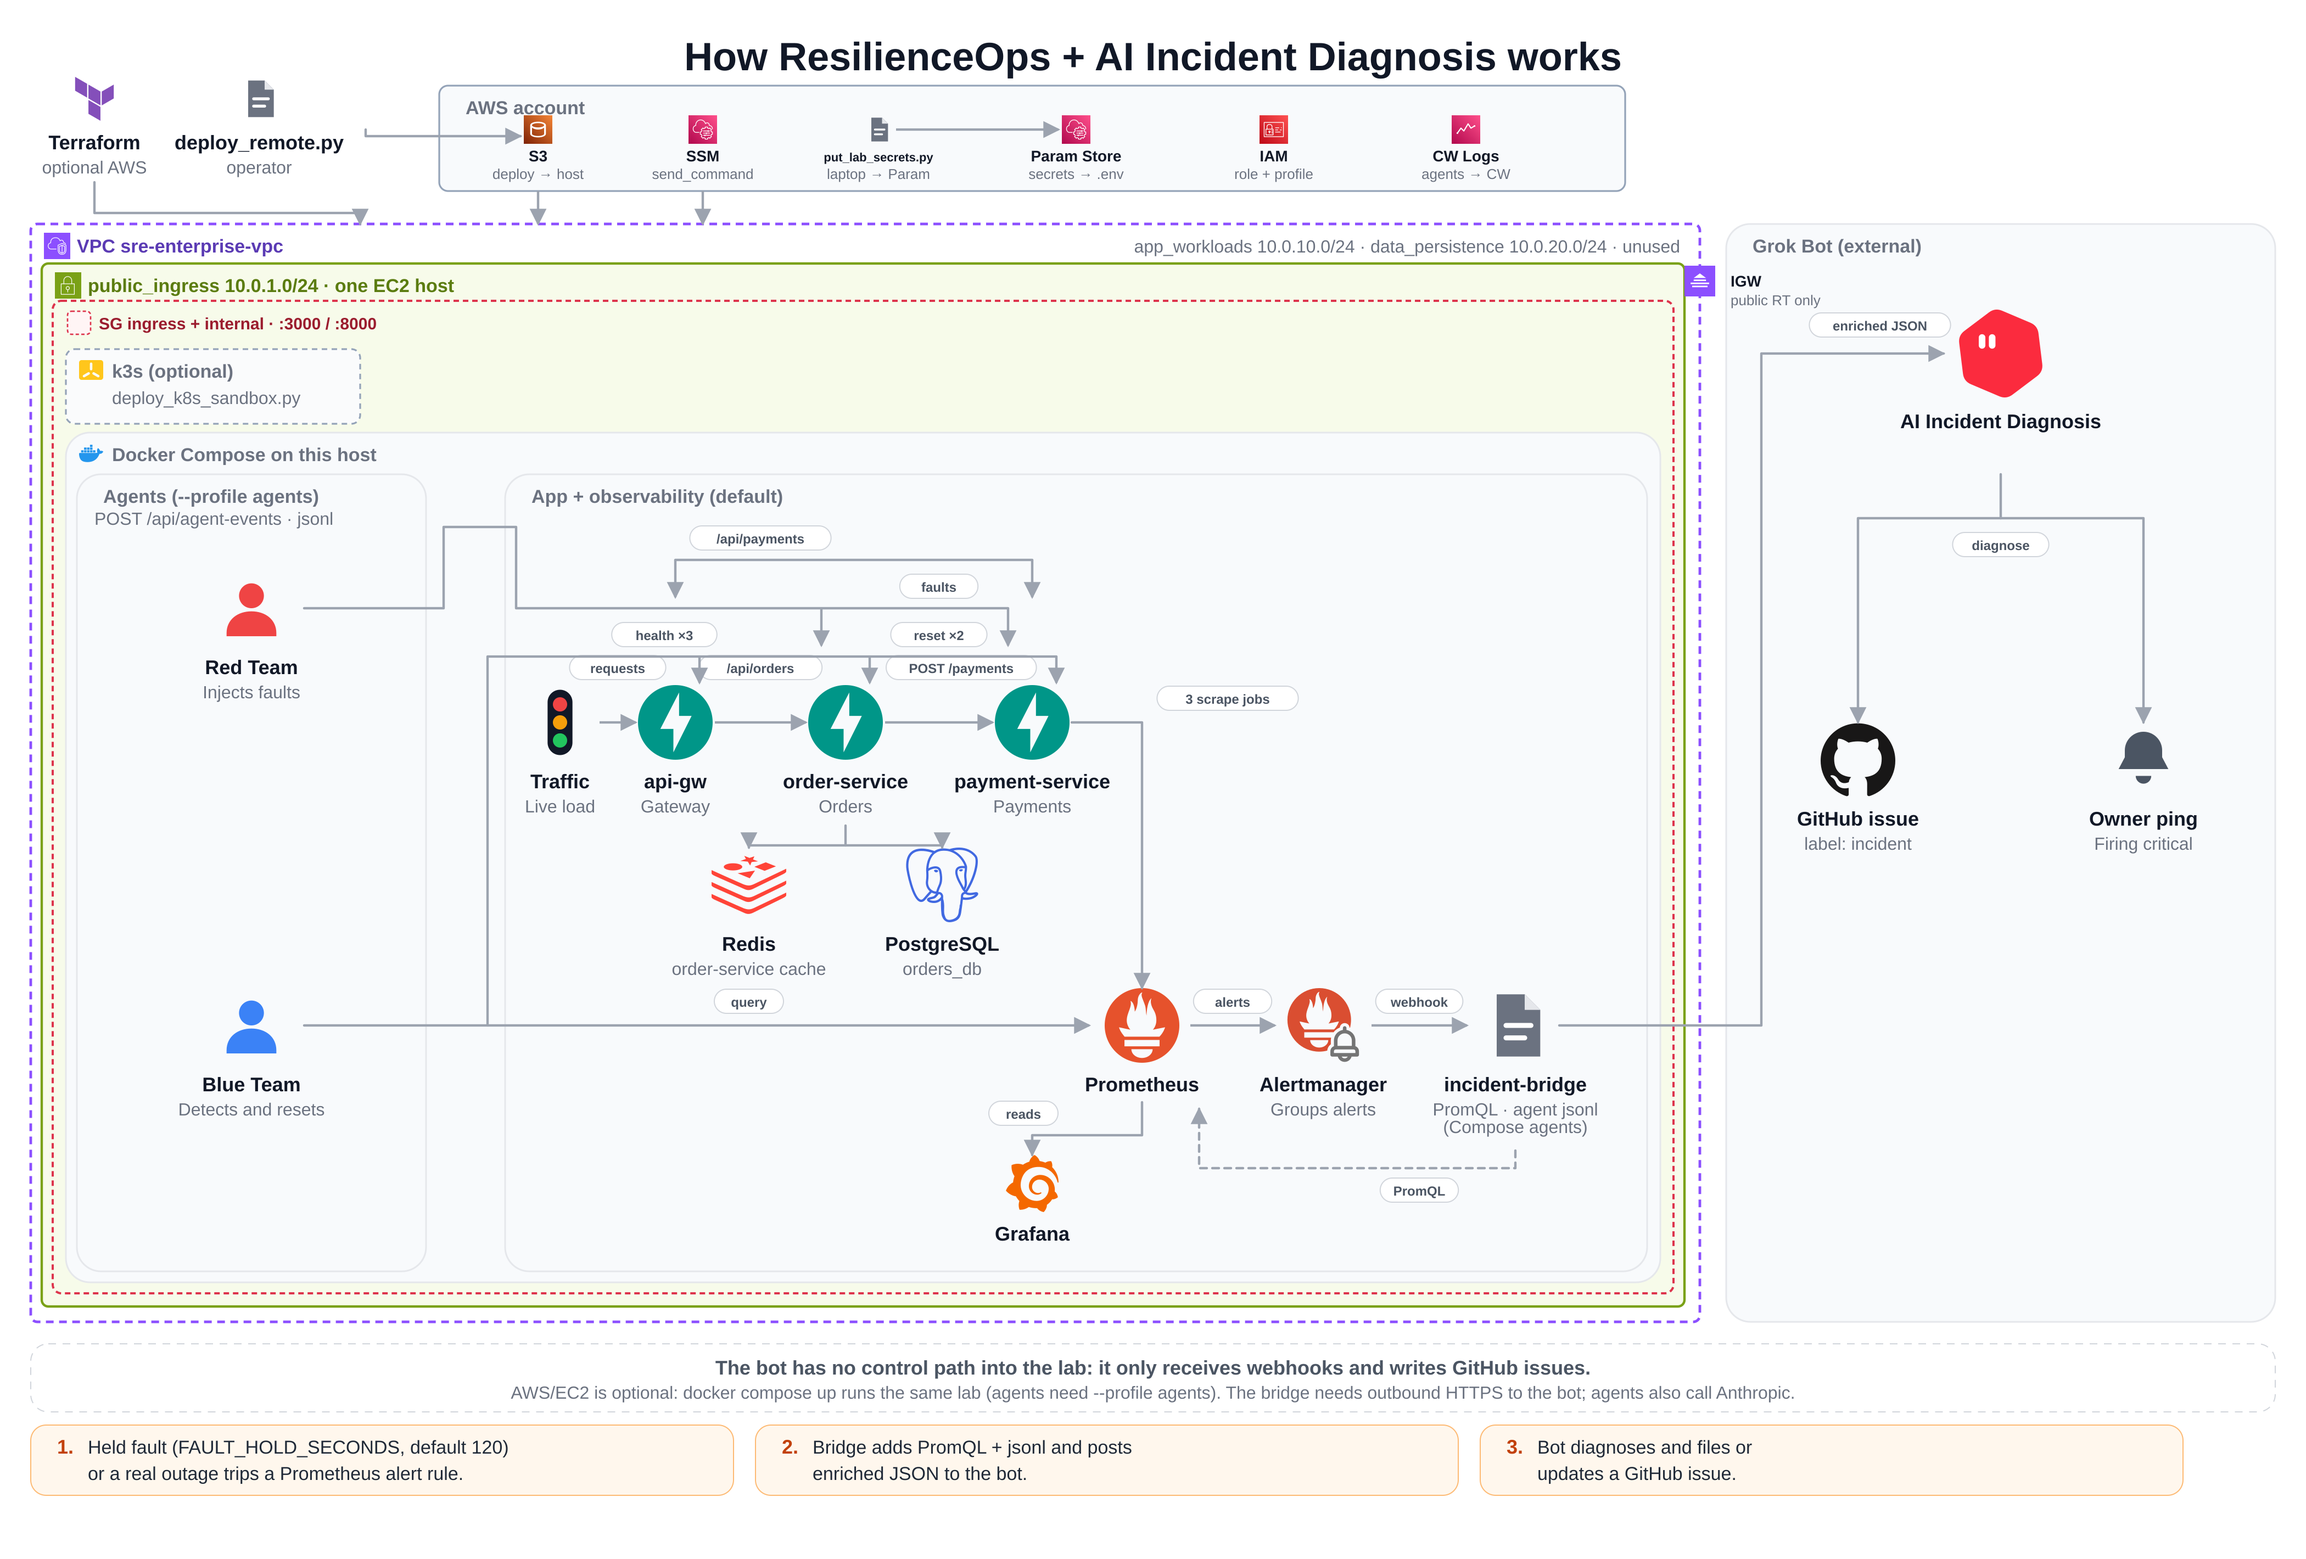
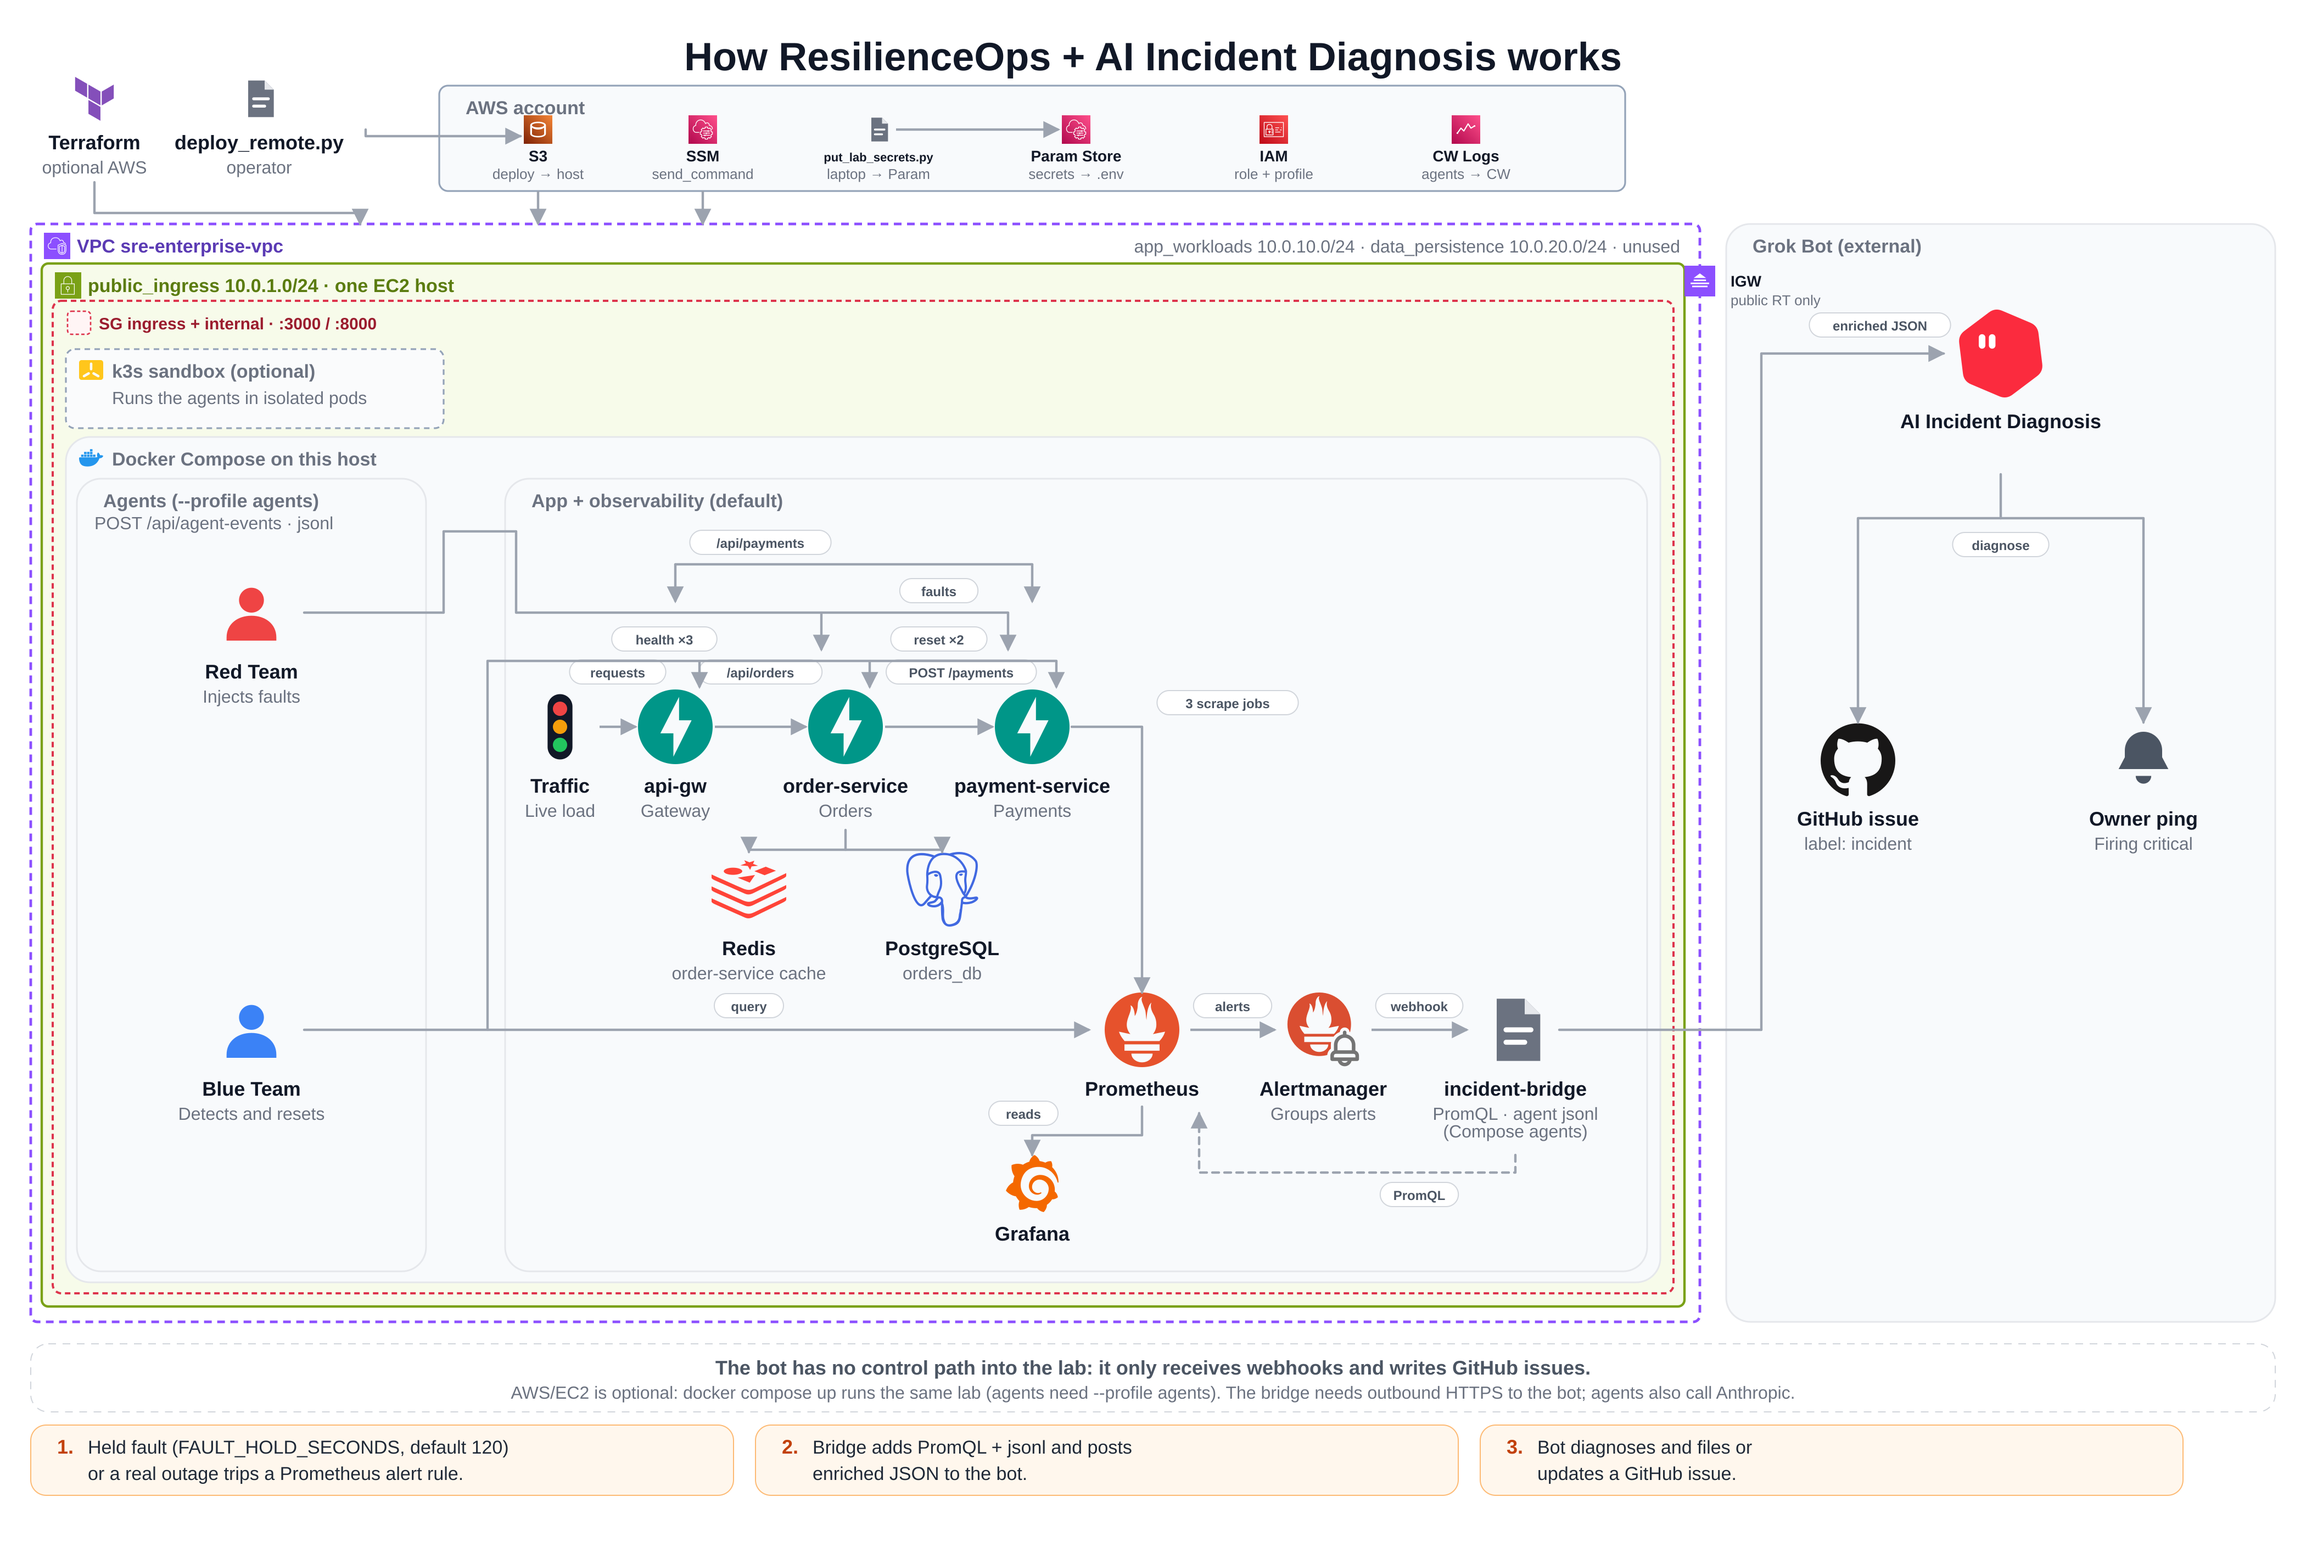
Relabel the optional k3s box as a sandbox for isolated agent pods. (#6)
The dashed k3s group now reads 'k3s sandbox (optional)' with subtitle
'Runs the agents in isolated pods'. The box is sized from the text
widths plus padding so check_geometry still reports zero violations.

diff --git a/scripts/build_architecture.py b/scripts/build_architecture.py
@@ -654,7 +654,11 @@ def build_scene() -> tuple[str, list[str]]:
     sg_w, sg_h = subnet_w - 20, subnet_h - 46
 
     nested_y = sg_y + 44
-    k3s_x, k3s_w, k3s_opt_h = sg_x + 12, 268, 68
+    k3s_title = "k3s sandbox (optional)"
+    k3s_sub = "Runs the agents in isolated pods"
+    k3s_x = sg_x + 12
+    k3s_opt_h = 72
+    k3s_w = 42 + max(_tw(k3s_title, 17, True), _tw(k3s_sub, 16)) + 20
     compose_x = sg_x + 12
     compose_y = nested_y + k3s_opt_h + 8
     compose_w = sg_w - 24
@@ -744,9 +748,9 @@ def build_scene() -> tuple[str, list[str]]:
     scene.add(group(sg_x, sg_y, sg_w, sg_h, "SG  ingress + internal  ·  :3000 / :8000", icon="aws-sg", style="sg"))
     scene.container("sg", sg_x, sg_y, sg_w, sg_h)
     scene.text(sg_x + 42, sg_y + 26, "SG  ingress + internal  ·  :3000 / :8000", 15, bold=True, name="group:sg", container="sg")
-    scene.add(group(k3s_x, nested_y, k3s_w, k3s_opt_h, "k3s (optional)", icon="k3s", style="optional"))
+    scene.add(group(k3s_x, nested_y, k3s_w, k3s_opt_h, k3s_title, icon="k3s", style="optional"))
     scene.container("k3s", k3s_x, nested_y, k3s_w, k3s_opt_h)
-    scene.text(k3s_x + 42, nested_y + 26, "k3s (optional)", 17, bold=True, name="group:k3s", container="k3s")
+    scene.text(k3s_x + 42, nested_y + 26, k3s_title, 17, bold=True, name="group:k3s", container="k3s")
     scene.add(group(compose_x, compose_y, compose_w, compose_h, "Docker Compose on this host", icon="docker"))
     scene.container("compose", compose_x, compose_y, compose_w, compose_h)
     scene.text(compose_x + 42, compose_y + 26, "Docker Compose on this host", 17, bold=True, name="group:compose", container="compose")
@@ -762,9 +766,9 @@ def build_scene() -> tuple[str, list[str]]:
 
     scene.add(
         f'  <text x="{k3s_x + 42:.0f}" y="{nested_y + 50:.0f}" class="cap">'
-        "deploy_k8s_sandbox.py</text>"
+        f"{k3s_sub}</text>"
     )
-    scene.text(k3s_x + 42, nested_y + 50, "deploy_k8s_sandbox.py", 16, name="k3s-sub", container="k3s")
+    scene.text(k3s_x + 42, nested_y + 50, k3s_sub, 16, name="k3s-sub", container="k3s")
     scene.add(
         f'  <text x="{agents_x + 16:.0f}" y="{inner_y + 46:.0f}" class="cap">'
         "POST /api/agent-events · jsonl</text>"

diff --git a/tests/test_docs_consistency.py b/tests/test_docs_consistency.py
@@ -175,7 +175,9 @@ def test_readme_sample_post_mortem_is_current_generator():
     assert "Docker Compose on this host" in svg
     assert "App + observability (default)" in svg
     assert "Compose lab on this host" not in svg
-    assert "k3s (optional)" in svg
+    assert "k3s sandbox (optional)" in svg
+    assert "Runs the agents in isolated pods" in svg
+    assert "k3s (optional)" not in svg
     assert "diagnose" in svg
     assert "read-only" not in svg.lower()
     assert "Your Grok bot" not in svg

diff --git a/docs/ACCURACY.md b/docs/ACCURACY.md
@@ -63,7 +63,7 @@ Compose + k3s, local vs AWS, optional fault injection, bot outbound HTTPS only.
 | VPC group | Purple dashed, “VPC  sre-enterprise-vpc”, AWS VPC icon | `build_architecture.py` vpc group; Name tag `terraform/main.tf` `sre-enterprise-vpc` |
 | Public subnet group | Green, “public_ingress  10.0.1.0/24  ·  one EC2 host”, public-subnet icon | `terraform/main.tf` `aws_subnet.public_ingress` (only subnet with `map_public_ip_on_launch` and the only one associated with the public RT) |
 | SG around host | Dashed red “SG  ingress + internal” wrapping optional k3s + Compose | SGs `terraform/main.tf` `ingress_sg` / `internal_app_sg` |
-| k3s group | Small dashed “k3s (optional)” + `deploy_k8s_sandbox.py` | Optional path `deploy_k8s_sandbox.py`; k3s installed on the **same** EC2 `user_data` (`https://get.k3s.io`) |
+| k3s group | Small dashed “k3s sandbox (optional)” + “Runs the agents in isolated pods” | Optional path `deploy_k8s_sandbox.py`; k3s installed on the **same** EC2 `user_data` (`https://get.k3s.io`); namespace `sre-agent-sandbox` |
 | Agents group | Inner “Agents (--profile agents)” holds Red + Blue, inside Docker Compose | One process: `orchestrator.py`. Compose service `agent-sandbox` `profiles: [agents]` `docker-compose.yml` |
 | Compose group | Outer “Docker Compose on this host” wrapping Agents and “App + observability (default)” | `docker-compose.yml` entire file; deploy zip includes compose (`deploy_remote.py` `INCLUDE_PATHS`) |
 | Grok column | “Grok Bot (external)” | Imported template, not hosted in-repo. Bridge needs outbound HTTPS (`GROK_WEBHOOK_URL`); agents also call Anthropic |
@@ -85,7 +85,7 @@ Compose + k3s, local vs AWS, optional fault injection, bot outbound HTTPS only.
 | put_lab_secrets.py satellite | “laptop → Param” | Operator script; not an AWS resource. Arrow into Param Store |
 | SG box | “ingress + internal” around the host | `aws_security_group.ingress_sg` / `internal_app_sg` |
 | IGW satellite | “public RT only”, straddling the VPC **right** border; labels in the VPC–Grok gutter | `aws_internet_gateway.igw`; public RT `0.0.0.0/0` via IGW; association **only** `public_ingress`. SG `ingress_sg` opens Grafana 3000 + API 8000 to `allowed_cidr` (SG title `:3000 / :8000`, no operator-port arrow) |
-| k3s | small dashed “k3s (optional)” | `deploy_k8s_sandbox.py`; namespace `sre-agent-sandbox` |
+| k3s | small dashed “k3s sandbox (optional)” / “Runs the agents in isolated pods” | `deploy_k8s_sandbox.py`; namespace `sre-agent-sandbox` |
 | Red Team | “Injects faults” (inside Agents box) | `orchestrator.py` Red agents; `infra_disruptor.py` / `network_adversary.py` |
 | Blue Team | “Detects and resets” (inside Agents box) | `orchestrator.py` Blue agents; `monitor.py`; `remediator.py` always `FaultCatalog.reset_environment()` after the hold |
 | Traffic | “Live load” | `docker-compose.yml:120-129` `traffic-generator`; `traffic-generator/load_generator.py:8-12` |
